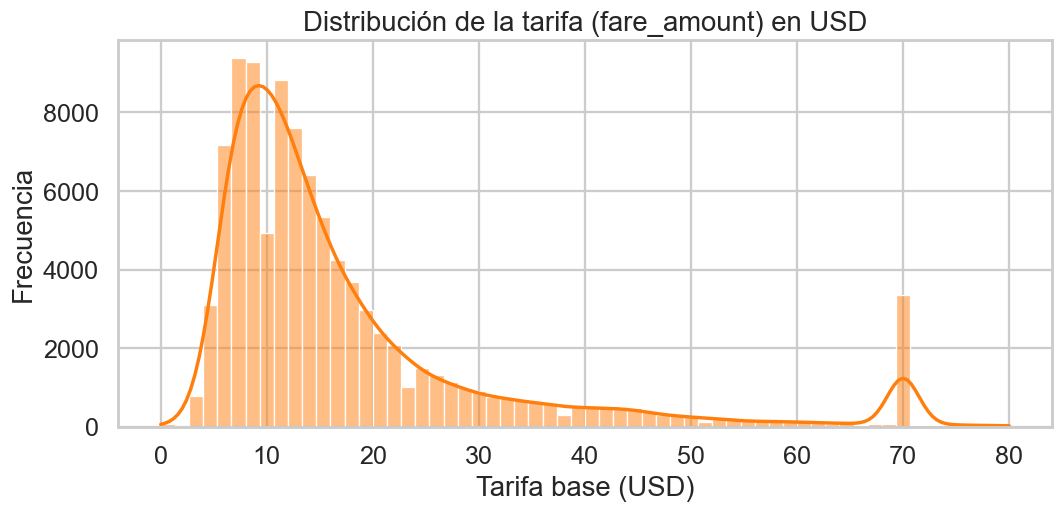
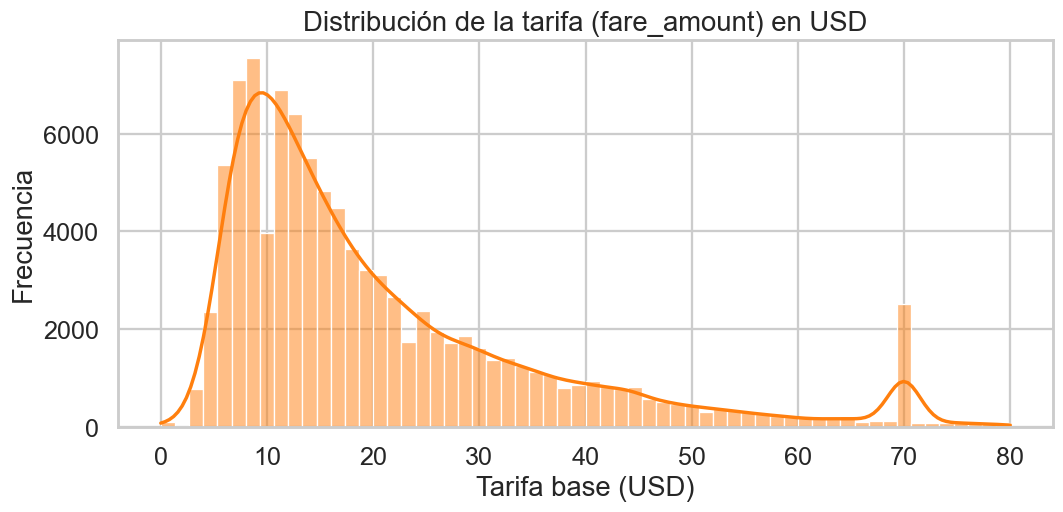
Updates última entrega

diff --git a/eda_taxis.py b/eda_taxis.py
@@ -2,12 +2,12 @@
 eda_taxis.py
 ============
 Análisis Exploratorio de Datos (EDA) sobre el dataset
-"NYC Yellow Taxi Trip Records" (Enero 2024).
+"NYC Yellow Taxi Trip Records" (Marzo 2026).
 
 Fuente oficial:
     https://www.nyc.gov/site/tlc/about/tlc-trip-record-data.page
 URL directa (Parquet):
-    https://d37ci6vzurychx.cloudfront.net/trip-data/yellow_tripdata_2024-01.parquet
+    https://d37ci6vzurychx.cloudfront.net/trip-data/yellow_tripdata_2026-03.parquet
 
 El script:
     1. Intenta descargar el Parquet oficial (si hay conectividad).
@@ -40,10 +40,10 @@ import seaborn as sns
 # Configuración
 # ---------------------------------------------------------------------------
 DATA_URL = (
-    "https://d37ci6vzurychx.cloudfront.net/trip-data/yellow_tripdata_2024-01.parquet"
+    "https://d37ci6vzurychx.cloudfront.net/trip-data/yellow_tripdata_2026-03.parquet"
 )
 ZONES_URL = "https://d37ci6vzurychx.cloudfront.net/misc/taxi_zone_lookup.csv"
-LOCAL_PARQUET = Path("yellow_tripdata_2024-01.parquet")
+LOCAL_PARQUET = Path("yellow_tripdata_2026-03.parquet")
 LOCAL_ZONES = Path("taxi_zone_lookup.csv")
 ASSETS_DIR = Path("assets")
 SAMPLE_SIZE = 100_000
@@ -72,13 +72,13 @@ def download_real_parquet(url: str, dest: Path, timeout: int = 30) -> bool:
 def synthesize_yellow_taxi_sample(n: int = SAMPLE_SIZE, seed: int = RANDOM_STATE) -> pd.DataFrame:
     """
     Genera una muestra sintética que reproduce el esquema oficial de la TLC
-    (Yellow Taxi - Enero 2024) con distribuciones realistas. Se utiliza como
+    (Yellow Taxi - Marzo 2026) con distribuciones realistas. Se utiliza como
     fallback cuando no hay conectividad para descargar el archivo real.
     """
     rng = np.random.default_rng(seed)
 
-    # Pickup datetimes distribuidos en Enero 2024, con sesgo a horas pico
-    base = pd.Timestamp("2024-01-01")
+    # Pickup datetimes distribuidos en Marzo 2026, con sesgo a horas pico
+    base = pd.Timestamp("2026-03-01")
     minutes_in_jan = 31 * 24 * 60
     pickup_minutes = rng.integers(0, minutes_in_jan, size=n)
     pickup = base + pd.to_timedelta(pickup_minutes, unit="m")
@@ -208,9 +208,9 @@ def basic_overview(df: pd.DataFrame) -> dict:
         "passenger_count == 0 o NaN": int(
             df["passenger_count"].fillna(0).eq(0).sum()
         ),
-        "pickup fuera de Enero 2024": int(
+        "pickup fuera de Marzo 2026": int(
             (~df["tpep_pickup_datetime"].between(
-                "2024-01-01", "2024-01-31 23:59:59")
+                "2026-03-01", "2026-03-31 23:59:59")
              ).sum()
         ),
     }
@@ -358,7 +358,7 @@ def plot_trip_distance(df: pd.DataFrame, out: Path) -> None:
     fig, ax = plt.subplots(figsize=(10, 5))
     data = df.loc[df["trip_distance"].between(0, 20), "trip_distance"]
     sns.histplot(data, bins=60, kde=True, color="#1f77b4", ax=ax)
-    ax.set_title("Distribución de la distancia de viaje (NYC Yellow Taxi - Ene 2024)")
+    ax.set_title("Distribución de la distancia de viaje (NYC Yellow Taxi - Mar 2026)")
     ax.set_xlabel("Distancia (millas)")
     ax.set_ylabel("Frecuencia")
     fig.tight_layout()
